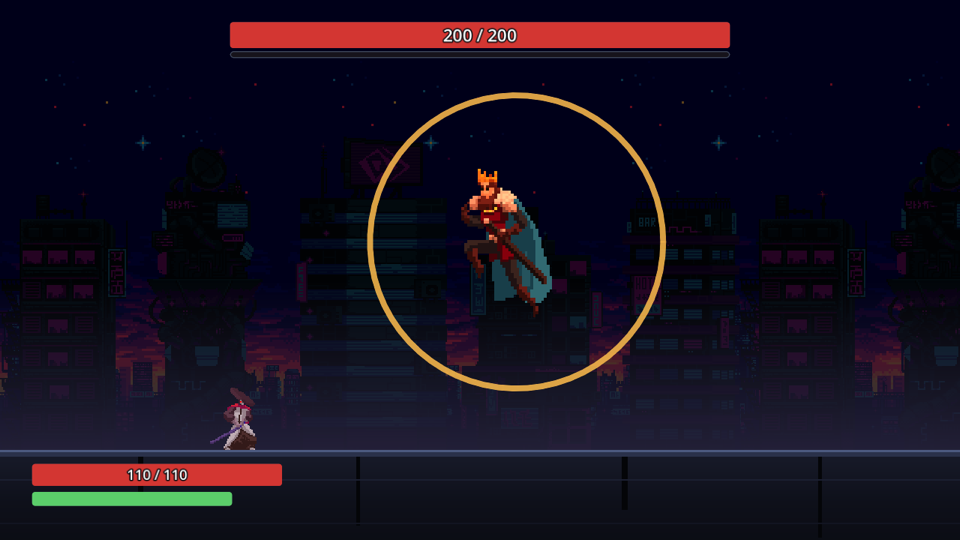
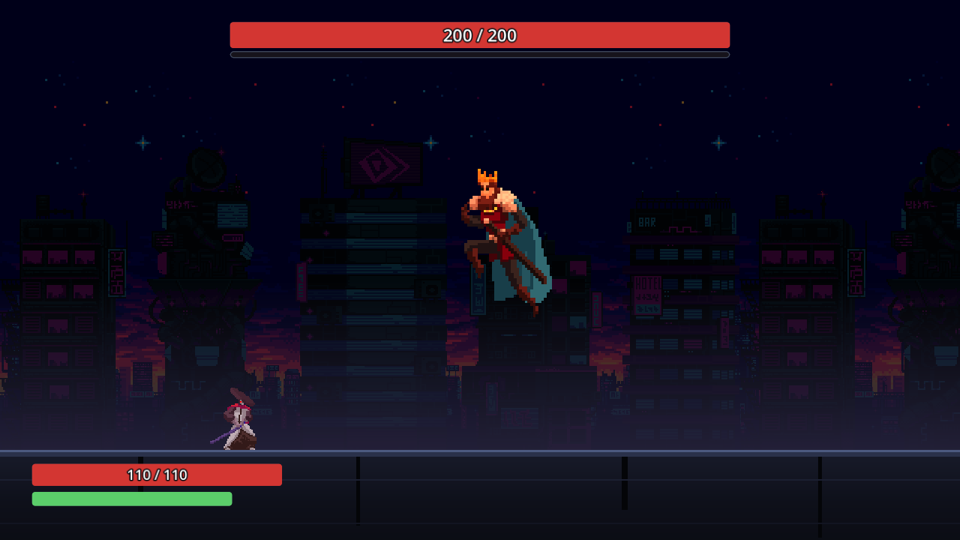
보스 공격의 동그라미 연출을 걷는다 (#81) (#84)
보스의 예고 링과 판정 충격파(링 · 불꽃)와 그 feel 키 넷을 걷었다. 파이터 쪽 링과 틴트 · 번쩍임 · 흔들림은 남겼다. README 의 점프 설명과 macOS 여는 법도 바로잡았고, 스크린샷을 다시 찍었다.

diff --git a/overfit/battle/view/BossView.cs b/overfit/battle/view/BossView.cs
@@ -15,9 +15,15 @@ namespace Overfit.Battle.View;
 ///
 /// <para>
 /// 패턴 중 붉은 틴트 하나로는 <b>무엇이 오는지</b>가 안 보인다는 것이 플레이 피드백이었다.
-/// 그래서 선딜과 판정이 서는 순간을 확실히 가른다 — 선딜에는 단계가 붙든 공격 자세와 함께
-/// 예고 링이 <b>조여 들고</b>, 판정이 서면 충격파가 <b>퍼진다</b>. 방향이 반대라
-/// 둘을 헷갈릴 수 없다.
+/// 그래서 선딜과 판정이 서는 순간을 가른다 — 선딜에는 단계가 붙든 공격 자세에 서서 몸이 선딜 틴트 쪽으로
+/// 무르익고, 판정이 서면 몸이 한 번 번쩍인다(화면 흔들림은 <c>BattleCues</c> 가 같이 건다).
+/// </para>
+///
+/// <para>
+/// <b>보스 공격에는 링이 없다</b> (#81). 전에는 선딜에 예고 링이 <b>조여 들고</b> 판정이 서면 충격파가 스파크와 함께
+/// <b>퍼졌다</b>(<see cref="RingBurst"/> 하나 · <c>feel.tell_ring_*</c> · <c>boss_ring_*</c>). 유저가 걷었다 —
+/// "적 공격에 동그라미 연출은 제거해주세요 전체적으로 캐릭터는 남겨놔도 됩니다." (2026-09-26). 파이터의 링
+/// (<c>FighterView</c>)은 그 "캐릭터" 라 남는다. 판정이 서는 순간의 번쩍임과 흔들림은 동그라미가 아니라 남겼다.
 /// </para>
 ///
 /// <para>
@@ -29,7 +35,7 @@ namespace Overfit.Battle.View;
 /// <b>무엇이 오는지는 그림이 말한다</b> (#72 · 설계 §6). 규칙의 단계가 가리키는 장(<c>anim</c> · <c>frame</c>)을 그대로
 /// 붙든다 — 3연격은 칼을 든 f0, 점프 공격은 웅크린 <c>jump</c> f0 다. 옛 변종의 예고 표지(칼 · 끌기 · 도약 표지 아홉)와
 /// 빨간 가드 불가 마무리(크림슨 · 링 · <c>危</c>)는 변종과 같이 걷었다 — 새 두 패턴에는 가드 불가 판정이 없어 빨강이 말할
-/// 것이 없다. 남은 링과 선딜 틴트는 "언제" 를 말하고, 5번 PR(링의 조임 · 틴트의 무르익음) · 6번 PR(링 전부)이 걷는다.
+/// 것이 없다. 선딜 틴트의 무르익음(<see cref="Ripeness"/>)이 "언제" 를 거들고, 5번 PR 이 그것도 걷는다(설계 §6).
 /// </para>
 /// </summary>
 public partial class BossView : Node2D
@@ -49,12 +55,9 @@ public partial class BossView : Node2D
     /// <summary>흰 플래시 셰이더의 세기 — <c>hit_flash.gdshader</c> 의 <c>uniform float flash</c> 다.</summary>
     private static readonly StringName _flashParam = "flash";
 
-    private static readonly Color _tellRingColor = new(1.00f, 0.74f, 0.30f, 0.85f);
-    private static readonly Color _shockRingColor = new(1.00f, 0.80f, 0.35f, 1.00f);
     private static readonly Color _activeFlash = new(2.60f, 2.30f, 1.60f);
 
     private AnimatedSprite2D _sprite = null!;
-    private RingBurst _ring = null!;
     private FeelBalance _feel = null!;
 
     private double _flashLeft;
@@ -81,12 +84,6 @@ public partial class BossView : Node2D
         _sprite.Scale = new Vector2((float)_feel.BossSpriteScale, (float)_feel.BossSpriteScale);
         _hitFlash = new ShaderMaterial { Shader = GD.Load<Shader>("res://battle/view/hit_flash.gdshader") };
         _sprite.Material = _hitFlash;
-        _ring = new RingBurst
-        {
-            Position = new Vector2(0, (float)-_feel.BossRingOffsetY),
-            LineWidth = (float)_feel.RingWidth * 1.6f,
-        };
-        AddChild(_ring);
     }
 
     public void Load(string spriteId)
@@ -122,7 +119,7 @@ public partial class BossView : Node2D
         Position = new Vector2((float)frame.X, (float)-frame.Y);
 
         // 스프라이트 원본은 오른쪽을 본다 — 팩의 규약이고 FighterView 도 같다.
-        // **뒤집어도 자리가 안 어긋난다**: Offset 의 x 는 0 이고(AlignToGround 는 y 만 건드린다) 링도 x=0 에 선다.
+        // **뒤집어도 자리가 안 어긋난다**: Offset 의 x 는 0 이다(AlignToGround 는 y 만 건드린다).
         _sprite.FlipH = frame.Facing < 0;
 
         BossPhase phase = frame.Phase;
@@ -131,13 +128,9 @@ public partial class BossView : Node2D
         _hitFlashLeft = System.Math.Max(0, _hitFlashLeft - dt);
         HoldLastFrameWhenDead();
 
-        // 탈진하면 패턴이 끊겨 Phase 가 Idle 이므로 링은 저절로 안 그려진다 (#72 · 설계 §4.3).
+        // 선딜 틴트의 무르익음만 쓴다 — 같은 값으로 조여 들던 예고 링은 걷었다(#81). 탈진하면 패턴이 끊겨 Phase 가 Idle 이라
+        // 0 이다 (#72 · 설계 §4.3).
         float ripeness = Ripeness(phase, frame.NextActiveIn);
-        if (ripeness > 0)
-        {
-            // 판정이 가까울수록 링이 **조여 든다.** 퍼지는 충격파와 방향이 반대라 둘을 헷갈릴 수 없다.
-            _ring.Charge(Mathf.Lerp((float)_feel.TellRingFrom, (float)_feel.TellRingTo, ripeness), _tellRingColor);
-        }
 
         string anim = AnimationFor(frame.Anim, frame.Exhausted);
         if (anim == frame.Anim && frame.Frame is int held)
@@ -164,17 +157,13 @@ public partial class BossView : Node2D
         }
     }
 
-    /// <summary>판정이 선 틱. 충격파가 <b>퍼진다</b> — 선딜과 방향이 반대다.</summary>
+    /// <summary>
+    /// 판정이 선 틱. 몸이 한 번 <b>번쩍인다</b>. 여기서 퍼지던 충격파와 스파크는 걷었다 — 보스 공격에 동그라미를 안 그린다
+    /// (#81 · 클래스 머리).
+    /// </summary>
     public void ActiveNow()
     {
         Flash(_activeFlash, _feel.FlashSeconds);
-        _ring.Burst(
-            (float)_feel.TellRingTo,
-            (float)_feel.BossRingTo,
-            _feel.BurstSeconds,
-            _shockRingColor,
-            _feel.SparkCount,
-            (float)_feel.SparkLength);
     }
 
     /// <summary>

diff --git a/tests/Overfit.Rules.Tests/Core/BalanceDataTests.cs b/tests/Overfit.Rules.Tests/Core/BalanceDataTests.cs
@@ -1,5 +1,8 @@
+using System;
 using System.Collections.Generic;
 using System.IO;
+using System.Linq;
+using System.Text.Json;
 using Overfit.Core;
 using Shouldly;
 using Xunit;
@@ -35,6 +38,24 @@ public class BalanceDataTests
         data.Feel.SparkCount.ShouldBeGreaterThan(0);
         data.Feel.DeathHoldSeconds.ShouldBeGreaterThan(0, "사망 애니메이션을 볼 시간이 없다");
         data.Feel.BossHitFlashSeconds.ShouldBeGreaterThan(0, "보스의 흰 플래시가 안 보인다 — 때린 것이 닿았는지가 화면에 안 남는다");
+    }
+
+    [Fact]
+    public void DTO_가_안_읽는_키가_balance_json_에_없다()
+    {
+        // JsonData 는 DTO 가 모르는 키를 조용히 버린다. 부팅의 `required` 검사는 "DTO 가 원하는 키가 JSON 에 있나" 한 방향만
+        // 보므로, 프로퍼티를 걷고 JSON 의 키를 남기면 아무도 안 읽는 수치가 진실 원천에 조용히 남는다.
+        // 보스 공격의 링 키 넷(tell_ring_from · tell_ring_to · boss_ring_offset_y · boss_ring_to)을 걷을 때(#81) DTO 만 먼저
+        // 뺀 상태로 규칙 테스트를 돌렸더니 389건 중 이것 하나만 빨갰다 — 다른 테스트는 그 상태를 못 본다.
+        using JsonDocument doc = JsonData.ParseDocument(ReadData("balance.json"), "balance.json");
+        JsonElement root = doc.RootElement;
+
+        var unread = new List<string>();
+        unread.AddRange(UnreadKeys(root, typeof(BalanceData), ""));
+        unread.AddRange(UnreadKeys(root.GetProperty("battle"), typeof(BattleBalance), "battle."));
+        unread.AddRange(UnreadKeys(root.GetProperty("feel"), typeof(FeelBalance), "feel."));
+
+        unread.ShouldBeEmpty("DTO 에 짝이 없는 키 — 아무도 안 읽는 수치다. 프로퍼티와 키는 같이 걷는다");
     }
 
     [Fact]
@@ -89,6 +110,16 @@ public class BalanceDataTests
 
         table.Keys.ShouldHaveSingleItem().ShouldBe("신경망");
         table["신경망"].N.ShouldBe(7);
+    }
+
+    /// <summary><paramref name="obj"/> 의 데이터 키(주석 <c>_…</c> 은 빼고) 중 <paramref name="dto"/> 의 프로퍼티와 짝이 없는 것.</summary>
+    private static IEnumerable<string> UnreadKeys(JsonElement obj, Type dto, string prefix)
+    {
+        HashSet<string> known = dto.GetProperties().Select(RequiredKeys.JsonName).ToHashSet();
+        return obj.EnumerateObject()
+            .Select(p => p.Name)
+            .Where(k => !JsonData.IsMetaKey(k) && !known.Contains(k))
+            .Select(k => prefix + k);
     }
 
     /// <summary>필수 키 누락을 보기 위한 시험용 DTO. 게임 데이터가 아니다.</summary>

diff --git a/overfit/core/BalanceData.cs b/overfit/core/BalanceData.cs
@@ -163,27 +163,21 @@ public sealed class FeelBalance
 
     /// <summary>
     /// 공격 섬광의 끝 반지름(px). ⚠ 칼이 그림의 모양이 되면서(이슈 #59) 사거리와 같은 눈금이라는
-    /// 뜻은 없어졌다 — 링은 6번 PR(연출)이 걷는다.
+    /// 뜻은 없어졌다. 그래도 캐릭터의 링이라 남긴다 — 유저: "전체적으로 캐릭터는 남겨놔도 됩니다" (2026-09-26 · #81).
     /// </summary>
     public required double AttackRingTo { get; init; }
 
     /// <summary>
-    /// 예고 링이 나타나는 시점 — 판정까지 <b>이만큼 남았을 때</b>부터 보인다(초).
+    /// 선딜 틴트가 무르익기 시작하는 시점 — 판정까지 <b>이만큼 남았을 때</b>부터 보스의 몸 색이 선딜 틴트 쪽으로 간다(초).
     /// 선딜 길이는 패턴마다 다르므로(0.40~0.80) 뷰가 그 값을 알 필요가 없게 고정 리드로 잡는다.
+    ///
+    /// <para>
+    /// 같은 리드로 <b>조여 들던 예고 링</b>과 판정에 퍼지던 충격파는 걷었다 (#81 — 유저: "적 공격에 동그라미 연출은
+    /// 제거해주세요"). 그 둘만 읽던 키 넷(<c>tell_ring_from</c> · <c>tell_ring_to</c> · <c>boss_ring_offset_y</c> ·
+    /// <c>boss_ring_to</c>)도 같이 지웠다. 틴트의 무르익음은 동그라미가 아니라 남았고, 5번 PR 이 걷는다(설계 §6).
+    /// </para>
     /// </summary>
     public required double TellLeadSeconds { get; init; }
-
-    /// <summary>보스 선딜 예고 링의 시작 반지름(px). 판정 순간을 향해 <b>줄어든다</b>.</summary>
-    public required double TellRingFrom { get; init; }
-
-    /// <summary>보스 선딜 예고 링이 판정 순간에 닿는 반지름(px).</summary>
-    public required double TellRingTo { get; init; }
-
-    /// <summary>보스 링을 그리는 높이(px, 발밑 기준). 보스는 297px 라 파이터와 같은 높이면 발치에 깔린다.</summary>
-    public required double BossRingOffsetY { get; init; }
-
-    /// <summary>보스 판정이 서는 순간 퍼지는 충격파의 끝 반지름(px). 보스 몸(반폭 85)보다 훨씬 커야 "퍼진다" 로 읽힌다.</summary>
-    public required double BossRingTo { get; init; }
 
     /// <summary>사망 애니메이션을 보여주고 결과 화면을 띄우기까지의 시간(초).</summary>
     public required double DeathHoldSeconds { get; init; }

diff --git a/overfit/battle/view/RingBurst.cs b/overfit/battle/view/RingBurst.cs
@@ -4,16 +4,21 @@ using Godot;
 namespace Overfit.Battle.View;
 
 /// <summary>
-/// 원과 스파크를 그리는 이펙트 노드 하나. 파이터의 패리 링과 보스의 선딜 예고·판정 충격파가
-/// <b>같은 그림</b>이라 한 클래스로 둔다 — 크기와 색만 부르는 쪽이 정한다.
+/// 원과 스파크를 그리는 이펙트 노드 하나. 파이터의 링 — 가드 링 · 받아친 고리 · 가드가 받아낸 고리 · 붕괴의 큰 고리 ·
+/// 공격 섬광 — 이 <b>같은 그림</b>이라 한 클래스로 둔다. 크기와 색만 부르는 쪽(<c>FighterView</c>)이 정한다.
+///
+/// <para>
+/// 보스의 선딜 예고 링과 판정 충격파도 이 클래스였는데 걷었다 (#81 — 유저: "적 공격에 동그라미 연출은 제거해주세요
+/// 전체적으로 캐릭터는 남겨놔도 됩니다." 2026-09-26). 그래서 지금 부르는 쪽은 파이터뿐이다.
+/// </para>
 ///
 /// <para>
 /// 두 가지 모드가 있다.
 /// <list type="bullet">
-/// <item><see cref="Charge"/> — <b>프레임마다 다시 준다.</b> 창이 열려 있는 동안의 링이고,
-/// 반지름이 곧 "얼마나 남았나" 다. 안 주는 프레임엔 <b>저절로 사라진다</b> —
+/// <item><see cref="Charge"/> — <b>프레임마다 다시 준다.</b> 자세가 서 있는 동안의 링이다(지금은 가드 링 하나).
+/// 안 주는 프레임엔 <b>저절로 사라진다</b> —
 /// 끄는 메서드를 일부러 안 만들었다. 끄는 것을 잊어 링이 남는 사고를 구조로 없앤다.</item>
-/// <item><see cref="Burst"/> — <b>한 번 주면 스스로 끝난다.</b> 성공·판정 같은 순간이다.</item>
+/// <item><see cref="Burst"/> — <b>한 번 주면 스스로 끝난다.</b> 받아침 · 막음 · 붕괴 · 칼질 같은 순간이다.</item>
 /// </list>
 /// 창(charge)은 상태고 순간(burst)은 사건이라 시계를 따로 둔다. 하나로 합치면 창이 닫히는
 /// 프레임에 성공 섬광이 같이 지워진다 — 정확히 그 순간에 보여야 하는 것인데.

diff --git a/overfit/battle/view/FighterView.cs b/overfit/battle/view/FighterView.cs
@@ -99,8 +99,8 @@ public partial class FighterView : Node2D
     ///
     /// <para>
     /// 가드와 <b>같은 보라 계열</b>이되 희게 탄다 — "버티던 그 고리가 부서졌다" 로 읽혀야 한다.
-    /// 주황으로 해 봤더니 보스의 판정 충격파(호박색)와 같은 프레임에 겹쳐 둘이 한 덩어리가 됐다.
-    /// 가드가 깨지는 순간에는 <b>언제나</b> 그 충격파가 같이 있으므로, 이 둘은 반드시 갈려야 한다.
+    /// 주황으로 해 봤을 때는 가드가 깨질 때마다 같이 터지던 보스의 판정 충격파(호박색)와 같은 프레임에 겹쳐 둘이
+    /// 한 덩어리가 됐다. 그 충격파는 걷었지만(#81 — 보스 공격에 동그라미를 안 그린다) 보라인 이유는 첫 문장이 그대로 선다.
     /// </para>
     /// </summary>
     private static readonly Color _guardBreakColor = new(0.86f, 0.70f, 1.00f, 1.00f);
@@ -367,7 +367,7 @@ public partial class FighterView : Node2D
     /// <summary>
     /// 가드가 <b>깨졌다</b> (이슈 #47). 여기만은 크게 터진다 — 전액을 맞고 탈진(#71)해 굳는데
     /// 화면이 조용하면 "키가 안 먹는다" 로 읽힌다. 그 뒤의 탈진은 자세(<c>hit</c> 의 마지막 장)와 <see cref="_exhaustTint"/> 가 말한다 —
-    /// 스태미나를 다 써 든 탈진과 같은 그림이고, 붕괴만 이 고리가 더 붙는다(6번 PR 까지).
+    /// 스태미나를 다 써 든 탈진과 같은 그림이고, 붕괴만 이 고리가 더 붙는다. 캐릭터의 링이라 남긴다(#81 · 유저 2026-09-26).
     /// </summary>
     public void GuardBroken()
     {

diff --git a/overfit/battle/debug/ShotRunner.cs b/overfit/battle/debug/ShotRunner.cs
@@ -171,7 +171,7 @@ public partial class ShotRunner : Node
         await Screenshot.CaptureAsync(this, "battle-5b-boss-hit");
         GetTree().Paused = false;
 
-        // ── 보스 선딜: 예고 링이 조여 드는 중 ─────────────────────────────
+        // ── 보스 선딜: 예고 자세에 서서 틴트가 무르익는 중 (링은 없다 · #81) ──
         await Until(() => _battle?.BossWindingUp == true, _pollTimeout);
         await Frames(12);
         await Screenshot.CaptureAsync(this, "battle-6-windup");
@@ -442,7 +442,7 @@ public partial class ShotRunner : Node
         // 오른쪽을 향한 채 그려진다.
         //
         // **판정까지 0.6초 넘게 남은 선딜만 고른다.** 그냥 "선딜인가" 만 보면 끝자락에 걸리고,
-        // 그때 지나가면 잠긴 몸 대신 판정 충격파가 찍힌다 — 실제로 그렇게 찍혔다.
+        // 그때 지나가면 잠긴 몸 대신 판정이 선 순간이 찍힌다 — 실제로 그렇게 찍혔다(그때는 판정 충격파가 덮었다 · 링은 #81 로 걷었다).
         //
         // **걸음이 아니라 대시로 넘는다.** 보스 몸이 반폭 85 라 걸음(420px/s)으로는 선딜 하나 안에
         // 몸 밖으로 확실히 못 나간다 — 겹친 채 찍히면 어느 쪽에 섰는지가 그림에서 안 읽힌다.

diff --git a/overfit/battle/BattleCues.cs b/overfit/battle/BattleCues.cs
@@ -83,8 +83,9 @@ public sealed class BattleCues
         Walking = input.Move != 0 && _sim.Fighter.Action == FighterAction.Idle;
 
         // 회피 관측은 끝까지 간 보스 판정 하나마다 한 건 는다 — 닿으면 닿은 틱에, 빗나가거나 무적으로 흘렸으면 창이 닫히는
-        // 틱에(스펙 §3.6 ①). 탈진이나 판 끝으로 끊긴 창은 관측이 없다(§3.5). 그래서 빗나간 칼의 충격파는 창이 닫힐 때 난다 —
-        // 칼이 선 순간과 어긋나는 것은 링을 걷는 6번 PR 이 다시 본다. 맞았든 빗나갔든 칼은 휘둘러졌으므로 충격파는 나와야 한다.
+        // 틱에(스펙 §3.6 ①). 탈진이나 판 끝으로 끊긴 창은 관측이 없다(§3.5). 그래서 빗나간 칼의 번쩍임과 흔들림은 창이 닫힐 때
+        // 난다 — 칼이 선 순간과 어긋난다. 맞았든 빗나갔든 칼은 휘둘러졌으므로 둘은 나와야 한다. 여기서 퍼지던 충격파(링)는
+        // 걷었다(#81 — 보스 공격에 동그라미를 안 그린다).
         if (_sim.Events.Count > _lastEventCount)
         {
             _bossView.ActiveNow();

diff --git a/overfit/battle/Battle.cs b/overfit/battle/Battle.cs
@@ -192,7 +192,7 @@ public partial class Battle : Node2D
     /// 다음 판정까지 남은 시간(초). 더 올 판정이 없으면 0. 위와 같이 디버그 전용 읽기다 —
     /// 선딜의 <b>어디쯤인지</b>를 보고 셔터를 눌러야 하는 장면이 있다(이슈 #36 의 방향 잠금:
     /// 선딜이 넉넉히 남았을 때 지나가야 "안 돌아본다" 가 증명되고, 끝자락에 지나가면
-    /// 잠금이 아니라 충격파가 찍힌다 — 실제로 그렇게 찍혔다).
+    /// 잠긴 몸이 아니라 판정이 선 순간이 찍힌다 — 실제로 그렇게 찍혔다. 그때는 판정 충격파가 화면을 덮었고, 그 링은 #81 로 걷었다).
     /// </summary>
     public double BossNextActiveIn => _broken || _over ? 0 : _sim.NextActiveIn ?? 0;
 

diff --git a/overfit/battle/view/BattleViewState.cs b/overfit/battle/view/BattleViewState.cs
@@ -42,7 +42,7 @@ public enum BossPhase
     /// <summary>패턴이 안 돈다. 다가오는 중이다.</summary>
     Idle,
 
-    /// <summary>선딜. 아직 올 판정이 남았다 — 남은 시간이 예고 링의 반지름이 된다.</summary>
+    /// <summary>선딜. 아직 올 판정이 남았다 — 남은 시간이 선딜 틴트의 무르익음이 된다(<c>BossView</c>).</summary>
     Windup,
 
     /// <summary>후딜. 이 패턴에 더 올 판정이 없다.</summary>

diff --git a/README.md b/README.md
@@ -25,7 +25,7 @@
 
 | | 무엇이 오나 | 답 |
 |---|---|---|
-| **3연격** | 칼을 든 채 잠깐 멈췄다가(그 자세가 예고다) 세 번 벤다 — 피해 8 · 8 · 14 | 다 된다 — 대시 · 가드 · 패리 · 간격. 점프는 낮게 베는 1타만 넘는다 |
+| **3연격** | 칼을 든 채 잠깐 멈췄다가(그 자세가 예고다) 세 번 벤다 — 피해 8 · 8 · 14 | 다 된다 — 대시 · 가드 · 패리 · 간격. 점프는 1 · 2타를 거의 어디서든 넘고, 3타는 바짝 붙어 있을 때 넘는다 |
 | **점프 공격** | 웅크렸다가 **당신이 선 자리를 향해** 뛰어올라, 착지하며 **바닥 전체**를 친다 — 피해 12 | 가드와 점프. **패리는 안 받는다** |
 
 **1단계는 당신이 무엇에 기대는지를 재는 자리다.** 2단계는 아직 1단계와 같은 두 패턴으로 돈다 — 1단계의 습관을
@@ -68,13 +68,13 @@
 
 ## 화면
 
-**예고는 보스의 그림이다.** 3연격은 칼을 든 장에, 점프 공격은 웅크린 장에 잠깐 멈춰 선다 — 무엇이 오는지는
-그 자세가, 언제 오는지는 조여 드는 링이 말한다. 1단계에는 가드로 못 막는 판정이 없다 — 옛 변종의 표지와 빨간
-마무리(危)는 변종과 같이 걷었다.
+**예고는 보스의 그림이다.** 3연격은 칼을 든 장에, 점프 공격은 웅크린 장에 잠깐 멈춰 선다 — 무엇이 오는지도
+언제 오는지도 그 자세가 말한다. 보스의 공격에는 동그라미를 그리지 않는다. 1단계에는 가드로 못 막는 판정이 없다 —
+옛 변종의 표지와 빨간 마무리(危)는 변종과 같이 걷었다.
 
 | <img src="docs/shots/battle-6-windup.png" width="420"> | <img src="docs/shots/battle-6a-leap.png" width="420"> |
 |---|---|
-| 보스의 선딜 — 그 패턴의 예고 자세에 멈춰 서고, 링이 조여 든다 | 점프 공격 — 당신 쪽으로 뛰어 착지에 바닥 전체를 친다 |
+| 보스의 선딜 — 그 패턴의 예고 자세에 멈춰 선다 | 점프 공격 — 당신 쪽으로 뛰어 착지에 바닥 전체를 친다 |
 | <img src="docs/shots/battle-10d-parry.png" width="420"> | <img src="docs/shots/battle-10e-boss-exhausted.png" width="420"> |
 | 받아친 순간 | 받아쳐 무너진 보스 — 1.5초 동안 푸르게 서고, 체력바 밑 게이지 자리가 남은 탈진을 파랗게 그린다 |
 | <img src="docs/shots/battle-12-poise.png" width="420"> | <img src="docs/shots/battle-12b-poise-break.png" width="420"> |
@@ -98,7 +98,7 @@
 ## 해보기
 
 **[Releases](https://github.com/Atralupus/OVERFIT/releases/latest)** 에 macOS 빌드가 있다.
-서명하지 않은 빌드라 처음 열 때 우클릭 → 열기 가 필요하다.
+서명하지 않은 빌드라 처음 열 때 막히면 시스템 설정 → 개인정보 보호 및 보안 맨 아래에서 그래도 열기 를 누른다(macOS 14 이하는 우클릭 → 열기).
 
 소스에서 돌리려면 Godot 4.7 (mono) 과 .NET 8 이 필요하다.
 
